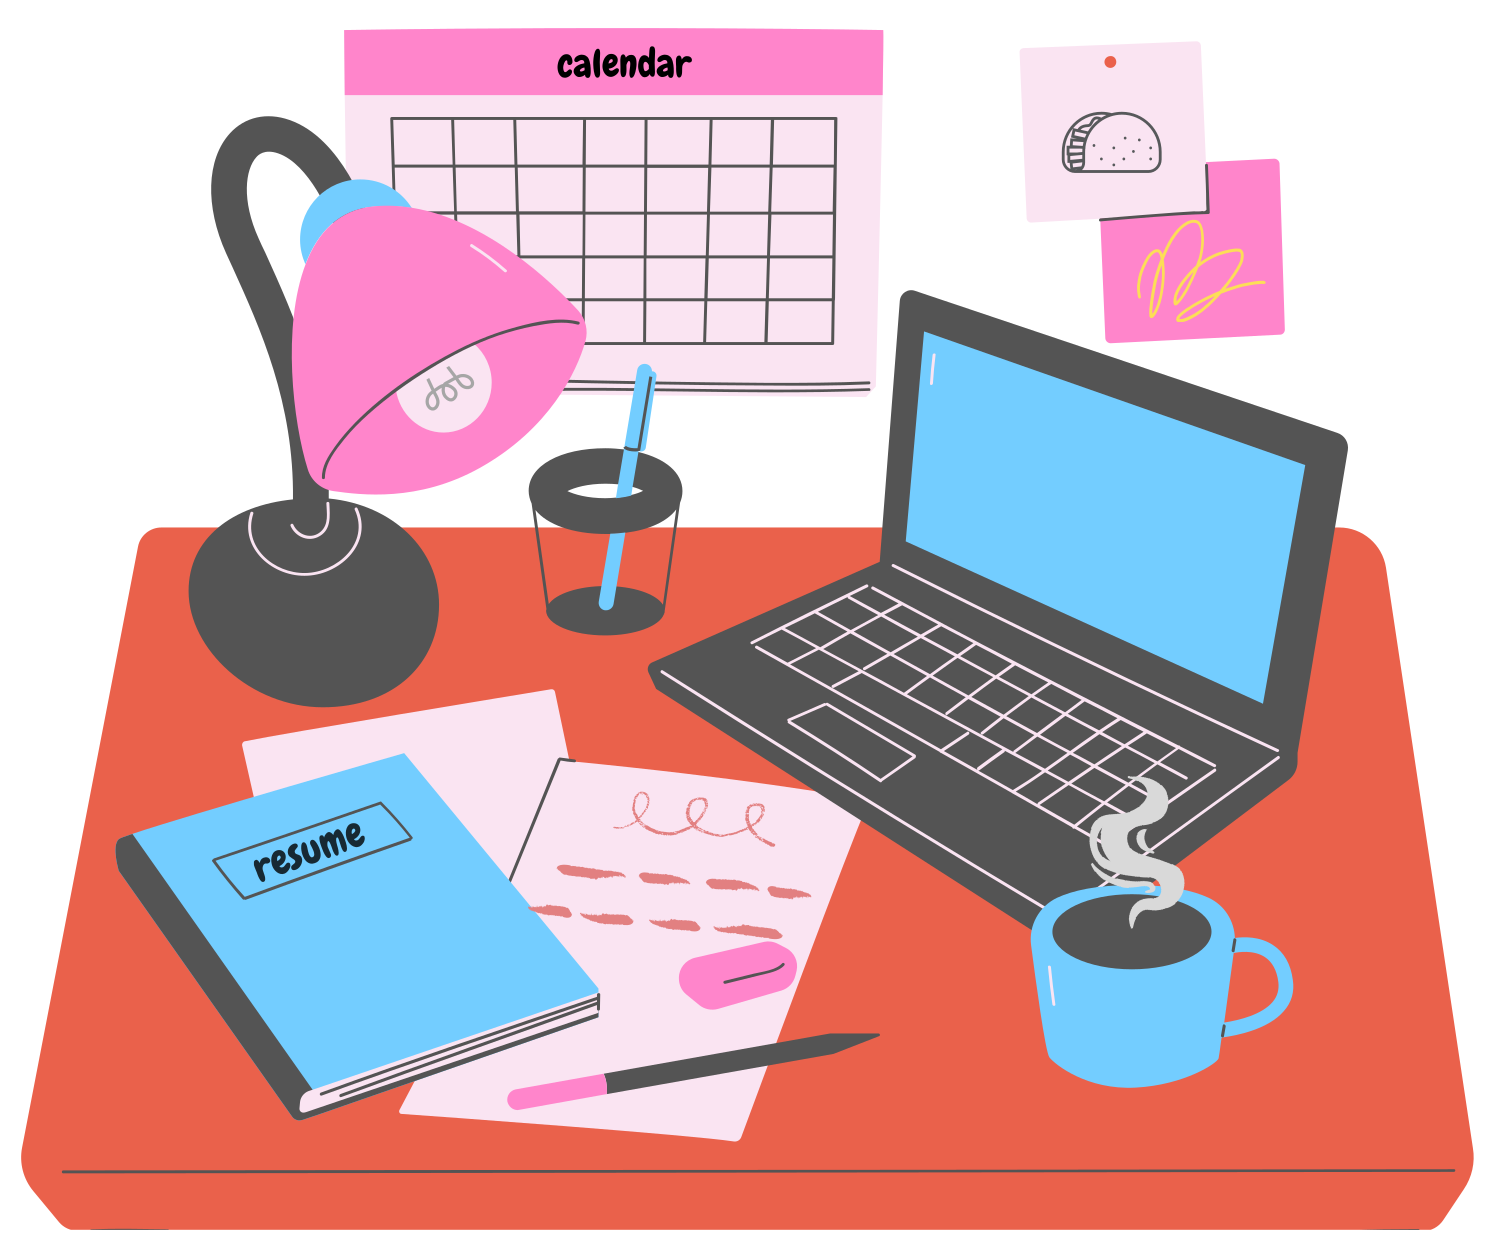
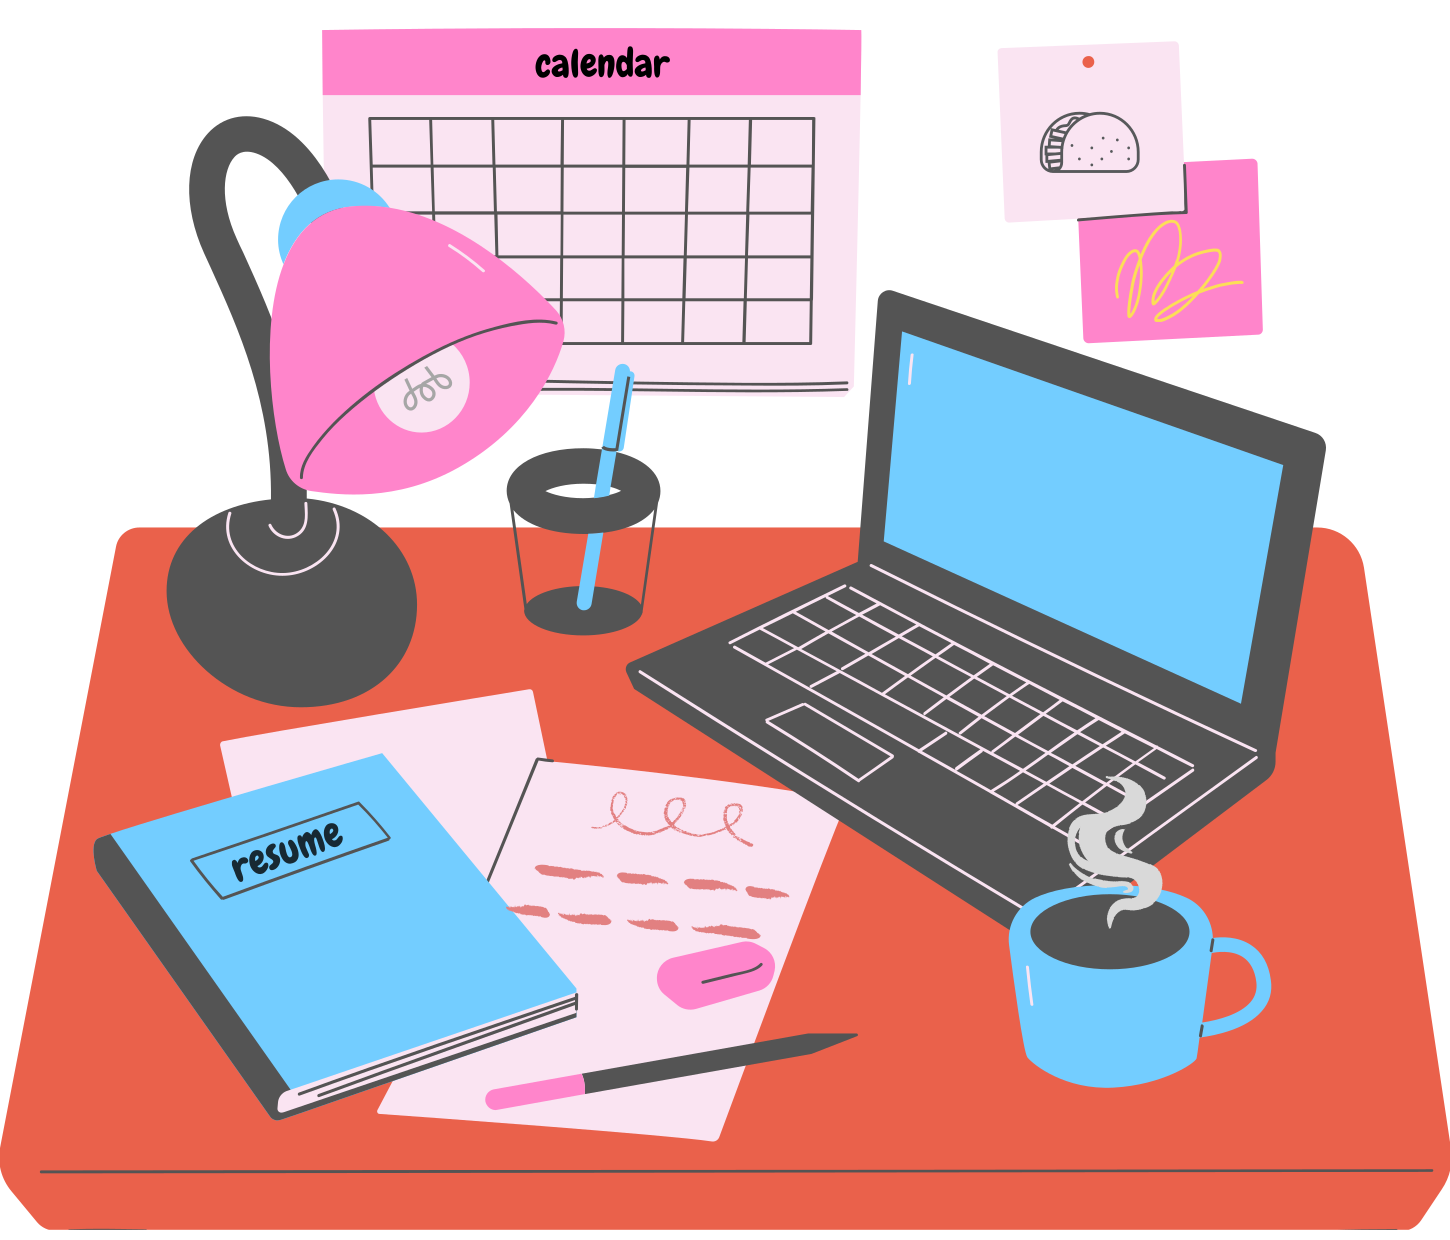
Lamp action done

diff --git a/index.html b/index.html
@@ -12,7 +12,11 @@
             <div class='header-block'>
                 <h1 class="name-header">Nimisha R Kumar!</h1>
             </div>
-            <img id="landing-img" class="landing-img" src="images/bg_off.png" alt="off"/>
+            <img id="landing-img" usemap="#landing-img-map" class="landing-img" width="600" src="images/bg_off.png" alt="off"/>
+            <map name="landing-img-map">
+                <area shape="poly" coords="125,78,119,86,114,98,116,106,117,109,113,122,111,139,112,158,115,180,117,194,121,199,127,203,150,204,168,201,186,196,203,184,216,173,227,155,233,141,233,133,229,126,216,114,203,104,189,95,174,89,161,85,153,78,146,74,136,74,129,76" 
+                onclick="flipSwitch()" alt="lamp" href="#"/>
+            </map>
         </div>
         <script src="index.js" async defer></script>
     </body>

diff --git a/index.js b/index.js
@@ -1,0 +1,11 @@
+let lamp="off";
+function flipSwitch() {
+    if(lamp==="off") {
+        lamp="on";
+        document.getElementById("landing-img").src="images/bg_on.png";
+    }
+    else {
+        lamp="off";
+        document.getElementById("landing-img").src="images/bg_off.png";
+    }
+}

diff --git a/index.css b/index.css
@@ -6,6 +6,9 @@ body {
     font-family: Noot;
     src: url("fonts/Noot.otf") format("opentype");
 }
+map area {
+    outline: none;
+}
 .main {
     padding: 55px 0;
     margin: auto;
@@ -27,5 +30,4 @@ body {
 .landing-img {
     display: block;
     margin: auto;
-    max-width: 600px;
 }
